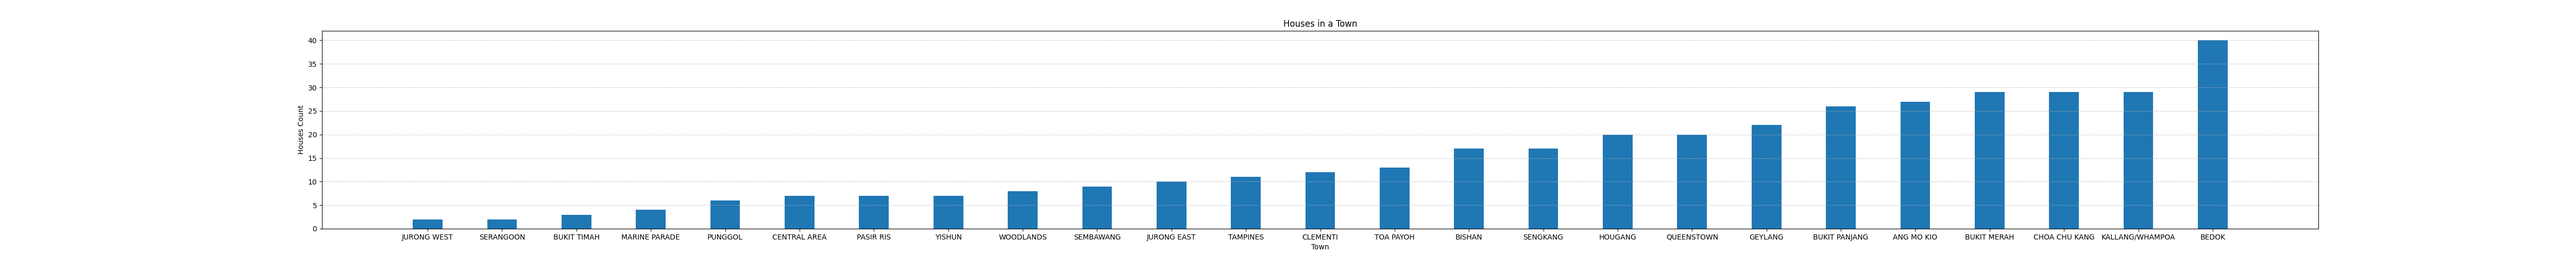
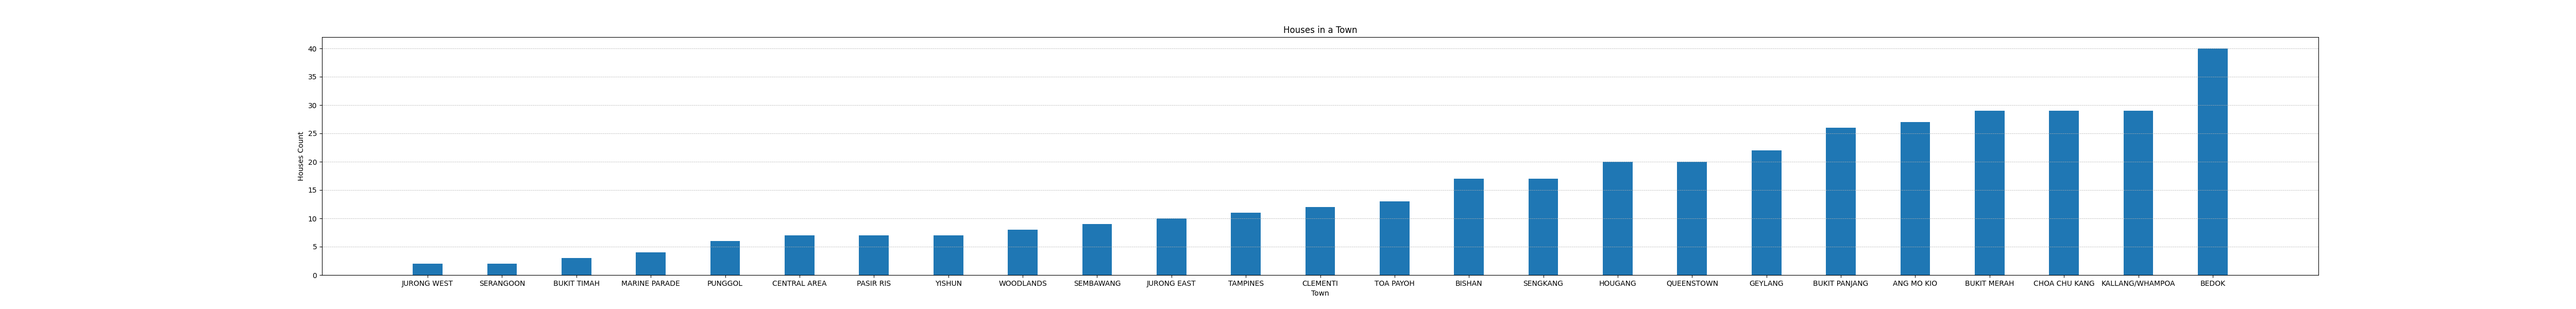
Refactor to allow dynamic adding of graph configurations

Changed region(s): [[0.156, 0.9, 0.8736, 0.93], [0.4992, 0.06, 0.5304, 0.12]]

diff --git a/project/charter.py b/project/charter.py
@@ -1,6 +1,7 @@
 from ast import Str
 from inspect import _void
 from multiprocessing.dummy import Array
+from tkinter import Grid
 import matplotlib.pyplot as plt
 import numpy as np
 from matplotlib.pyplot import figure
@@ -9,6 +10,11 @@ from model.data import Data
 from model.charts.visual_chart import VisualChart
 from model.charts.bar_chart import BarChart
 from model.charts.line_chart import LineChart
+
+from model.chart_configs.visual_chart_config import VisualChartConfig
+from model.chart_configs.grid_config import GridConfig
+from model.chart_configs.bar_plot_config import BarPlotConfig
+from model.chart_configs.plot_config import PlotConfig
 
 def _read_file_content(file_path: str):
     f = open(file_path)
@@ -38,37 +44,47 @@ def _get_column_data_from_excel(excel_content: Array, header_name: str) -> Array
             column_data.append(curr_row_data)
     return column_data
 
-def visual_chart(excel_file_path: str, visual_chart: VisualChart,  output_path: str) -> _void:
+def visual_chart(excel_file_path: str, visual_chart: VisualChart,  output_path: str, visual_chart_config: VisualChartConfig = None) -> _void:
     excel_content = _read_file_content(excel_file_path)
-
+    plt.clf()
     if isinstance(visual_chart, LineChart):
-        print_line_chart(excel_content, visual_chart, output_path)
+        print_line_chart(excel_content, visual_chart, output_path, visual_chart_config)
     elif isinstance(visual_chart, BarChart):
-        print_bar_chart(excel_content, visual_chart, output_path)
+        print_bar_chart(excel_content, visual_chart, output_path, visual_chart_config)
     else:
         raise ValueError("visual_chart: Unknown type of Chart")
-    plt.clf()
+    print("Printed a '" + visual_chart.title + "' chart to " + output_path)
 
-def print_bar_chart(excel_content: str, bar_chart: BarChart, output_path: str) -> _void:
+def print_bar_chart(excel_content: str, bar_chart: BarChart, output_path: str, visual_chart_config: VisualChartConfig) -> _void:
     raw_data = _get_column_data_from_excel(excel_content, bar_chart.data.name)
     bar_chart.data.set_data_from_raw(raw_data)
 
-    # Get both axis first (Towns)
-
+    # Get both axis first
     # Y axis = Value
     # X axis = Labels
     y_points = []
     x_points = []
-
     for p in bar_chart.data.points:
         x_points.append(p.label)
         y_points.append(p.value)
 
     # TODO: Accept a settings input
     #plt.rc('font', size=15)
-    plt.figure(figsize=(50, 5))
-    plt.bar(x_points, y_points, align='center', width=0.4)
-    plt.grid(axis = 'y', linestyle = '--', linewidth = 0.5)
+    if not visual_chart_config == None:
+        if not visual_chart_config.figure_size == None:
+            plt.figure(figsize=(visual_chart_config.figure_size.x_size, visual_chart_config.figure_size.y_size))
+
+    bar_plot_config = BarPlotConfig()
+    grid_config = GridConfig()
+    if not visual_chart_config == None:
+        if not visual_chart_config.plot_config == None:
+            if isinstance(visual_chart_config.plot_config, BarPlotConfig):
+                bar_plot_config = visual_chart_config.plot_config
+        if not visual_chart_config.grid_config == None:
+            grid_config = visual_chart_config.grid_config
+                
+    plt.bar(x_points, y_points, align= bar_plot_config.align, width= bar_plot_config.width) 
+    plt.grid(axis = grid_config.get_target_axis(), linestyle = grid_config.linestyle, linewidth = grid_config.linewidth, which = grid_config.get_target_grid())
 
     plt.title(bar_chart.title)
     plt.xlabel(bar_chart.x_name)
@@ -76,16 +92,20 @@ def print_bar_chart(excel_content: str, bar_chart: BarChart, output_path: str) -
 
     plt.savefig(output_path)
 
-def print_line_chart(excel_content: str, line_chart: LineChart, output_path: str) -> _void:
+def print_line_chart(excel_content: str, line_chart: LineChart, output_path: str, visual_chart_config: VisualChartConfig) -> _void:
     x_raw_data = _get_column_data_from_excel(excel_content, line_chart.x_data.name)
     line_chart.x_data.set_data_from_raw(x_raw_data)
 
     y_raw_data = _get_column_data_from_excel(excel_content, line_chart.y_data.name)
     line_chart.y_data.set_data_from_raw(y_raw_data)
 
-    plt.plot(line_chart.x_data.get_data_value(), line_chart.y_data.get_data_value())
+    grid_config = GridConfig()
+    if not visual_chart_config == None:
+        if not visual_chart_config.grid_config == None:
+            grid_config = visual_chart_config.grid_config
 
-    plt.grid(linestyle = '--', linewidth = 0.5)
+    plt.plot(line_chart.x_data.get_data_value(), line_chart.y_data.get_data_value())
+    plt.grid(axis = grid_config.get_target_axis(), linestyle = grid_config.linestyle, linewidth = grid_config.linewidth, which = grid_config.get_target_grid())
     plt.title(line_chart.title)
     plt.xlabel(line_chart.x_data.display_name)
     plt.ylabel(line_chart.y_data.display_name)

diff --git a/project/main.py b/project/main.py
@@ -6,6 +6,10 @@ from model.data_category import DataCategory
 from model.data import Data
 from model.charts.line_chart import LineChart
 from model.charts.bar_chart import BarChart
+from model.chart_configs.grid_config import GridConfig
+from model.chart_configs.target_axis import TargetAxis
+from model.chart_configs.visual_chart_config import VisualChartConfig
+from model.chart_configs.figure_size import FigureSize
 
 def make_rsrl_chart() -> _void:
     """
@@ -20,9 +24,12 @@ def make_hitc_chart() -> _void:
     """
     Bar Chart showing how many houses are there in a specific town
     """
+    grid_config = GridConfig(target_axis= TargetAxis.Y)
+    figure_size = FigureSize(50, 6)
+
     data = Data("town", DataCategory.TOWN, "Town")
     hitc_bar_chart = BarChart("Houses in a Town", "Town", "Houses Count", data)
-    visual_chart(MERGED_FILE_PATH, hitc_bar_chart, "project\VisualCharts\\houses_in_town_count.png")
+    visual_chart(MERGED_FILE_PATH, hitc_bar_chart, "project\VisualCharts\\houses_in_town_count.png", VisualChartConfig(grid_config=grid_config, figure_size=figure_size))
 
 # NOTE: The all excel files are converted to a text-csv file first before merging.
 EXCEL_FILE_LOCATIONS = [("project\Dataset\HDB Dataset - Jan.csv"), ("project\Dataset\HDB Dataset - Feb.csv")]

diff --git a/project/model/chart_configs/grid_config.py b/project/model/chart_configs/grid_config.py
@@ -1,0 +1,15 @@
+from model.chart_configs.target_axis import TargetAxis
+from model.chart_configs.target_grid import TargetGrid
+
+class GridConfig:
+    def __init__(self, target_axis : TargetAxis = TargetAxis.BOTH, target_grid : TargetGrid = TargetGrid.MAJOR,linestyle :str = '--', linewidth : float = 0.5):
+        self._target_axis = target_axis
+        self._target_grid = target_grid
+        self.linestyle = linestyle
+        self.linewidth = linewidth
+
+    def get_target_axis(self):
+        return self._target_axis.name.lower()
+    
+    def get_target_grid(self):
+        return self._target_grid.name.lower()

diff --git a/project/model/chart_configs/visual_chart_config.py b/project/model/chart_configs/visual_chart_config.py
@@ -1,0 +1,9 @@
+from model.chart_configs.grid_config import GridConfig
+from model.chart_configs.plot_config import PlotConfig
+from model.chart_configs.figure_size import FigureSize
+
+class VisualChartConfig:
+    def __init__(self, grid_config: GridConfig = None, plot_config: PlotConfig = None, figure_size: FigureSize = None):
+        self.grid_config = grid_config
+        self.plot_config = plot_config
+        self.figure_size = figure_size

diff --git a/project/model/chart_configs/bar_plot_config.py b/project/model/chart_configs/bar_plot_config.py
@@ -1,0 +1,6 @@
+from model.chart_configs.plot_config import PlotConfig
+
+class BarPlotConfig(PlotConfig):
+    def __init__(self, align: str = 'center', width : float = 0.4):
+        self.align = align
+        self.width = width

diff --git a/project/model/chart_configs/figure_size.py b/project/model/chart_configs/figure_size.py
@@ -1,0 +1,4 @@
+class FigureSize:
+    def __init__(self, x_size: int, y_size: int):
+        self.x_size = x_size
+        self.y_size = y_size

diff --git a/project/model/chart_configs/target_grid.py b/project/model/chart_configs/target_grid.py
@@ -1,0 +1,6 @@
+from enum import Enum
+
+class TargetGrid(Enum):
+    MINOR = 1,
+    MAJOR = 2,
+    BOTH = 3,

diff --git a/project/model/chart_configs/target_axis.py b/project/model/chart_configs/target_axis.py
@@ -1,0 +1,6 @@
+from enum import Enum
+
+class TargetAxis(Enum):
+    X = 1,
+    Y = 2,
+    BOTH = 3,

diff --git a/project/model/chart_configs/plot_config.py b/project/model/chart_configs/plot_config.py
@@ -1,0 +1,3 @@
+class PlotConfig:
+    def __init__(self):
+        pass
